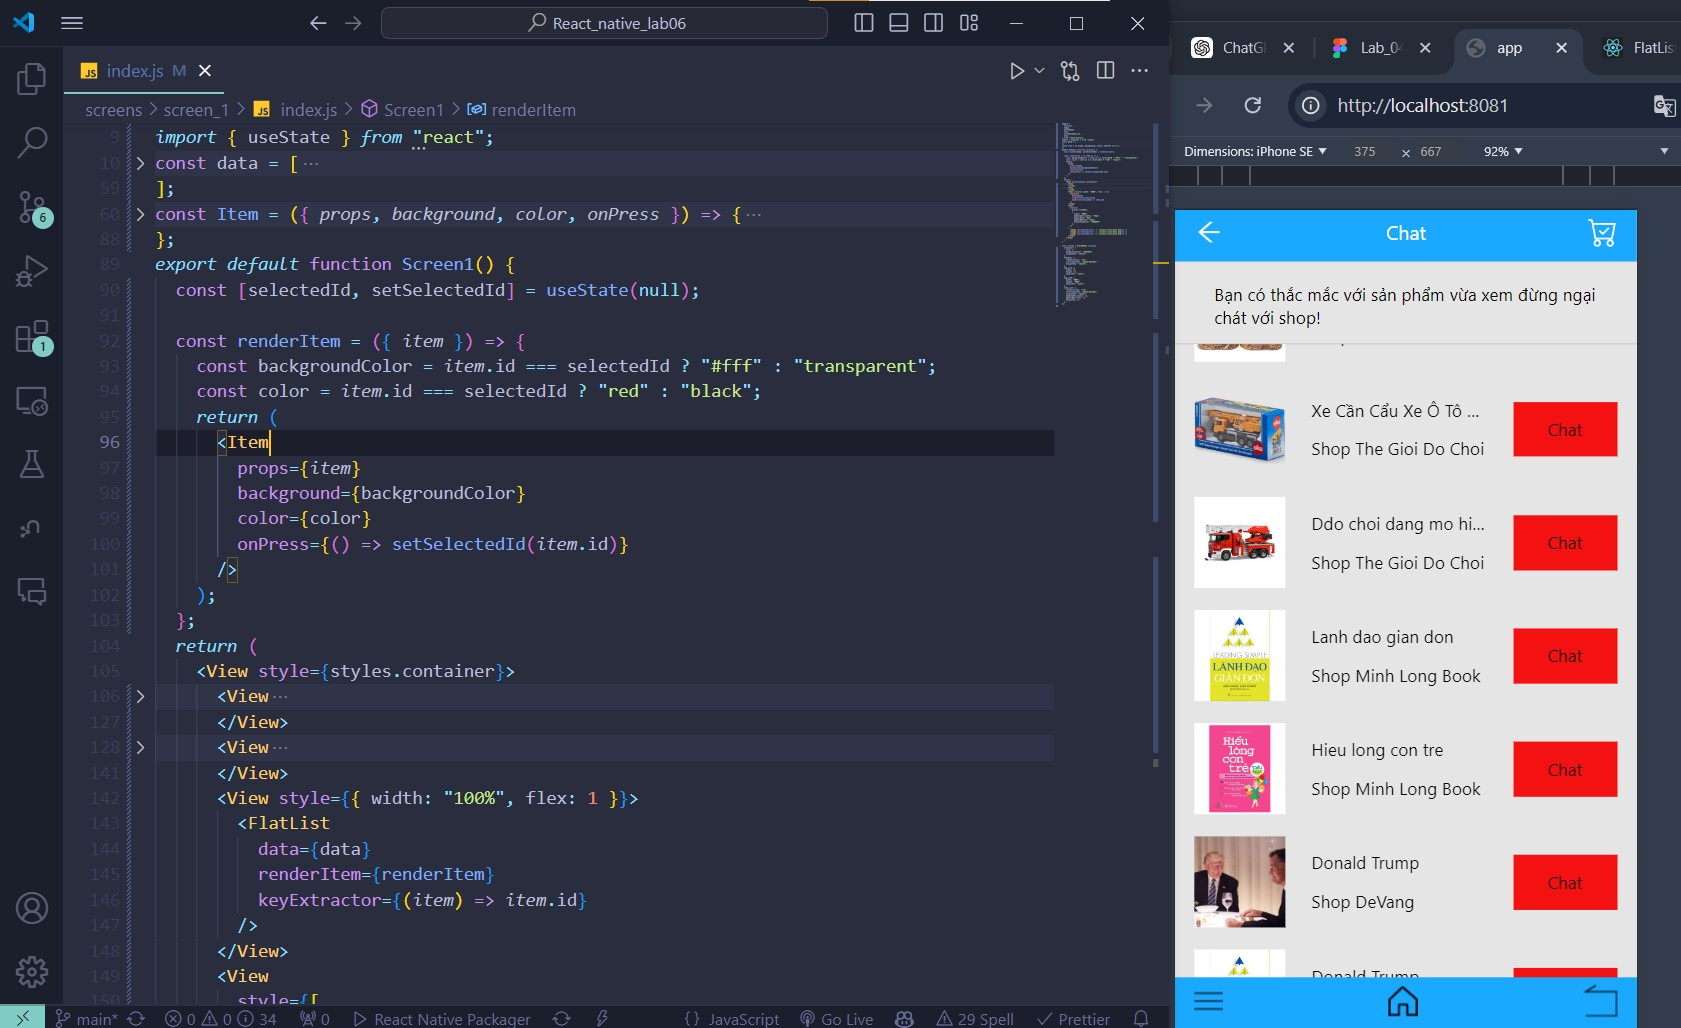
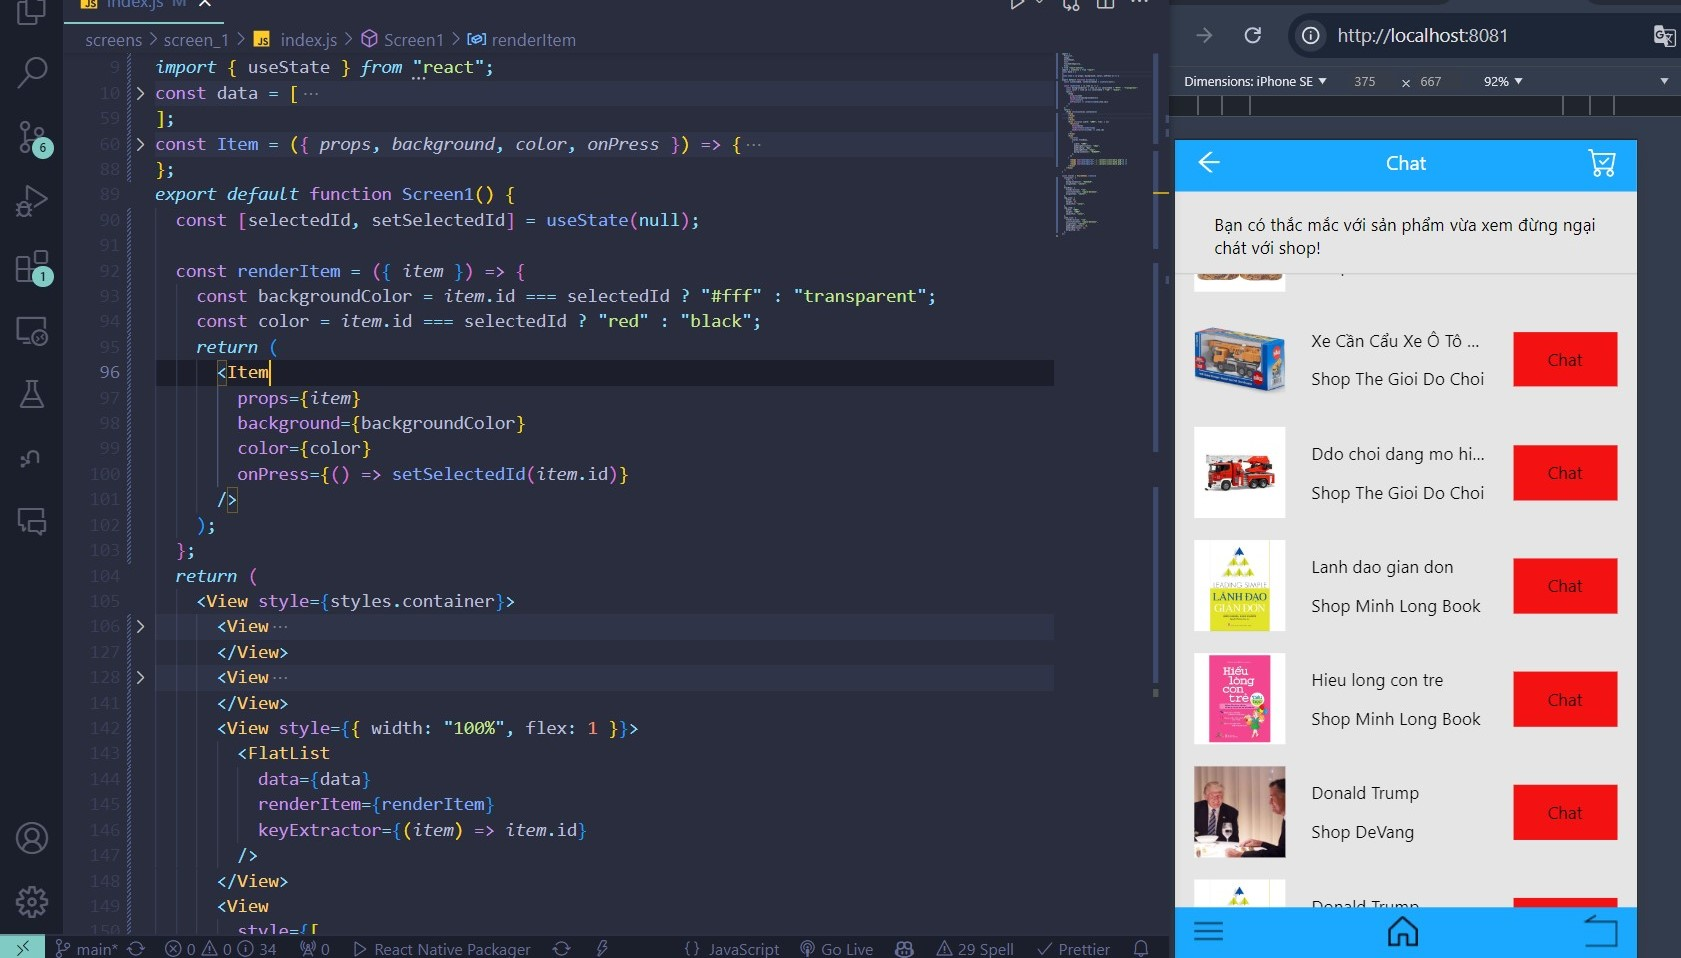
update pic

diff --git a/README.md b/README.md
@@ -4,4 +4,4 @@ FlatList practice
 ![alt text](minhChung/screen_1.png)
 ![alt text](minhChung/screen_1vscode.jpg)
 ![alt text](minhChung/screen_2.png)
-![alt text](minhChung/screen_2vscode.jpg)
+![alt text](minhChung/screen_2vscode.png)
